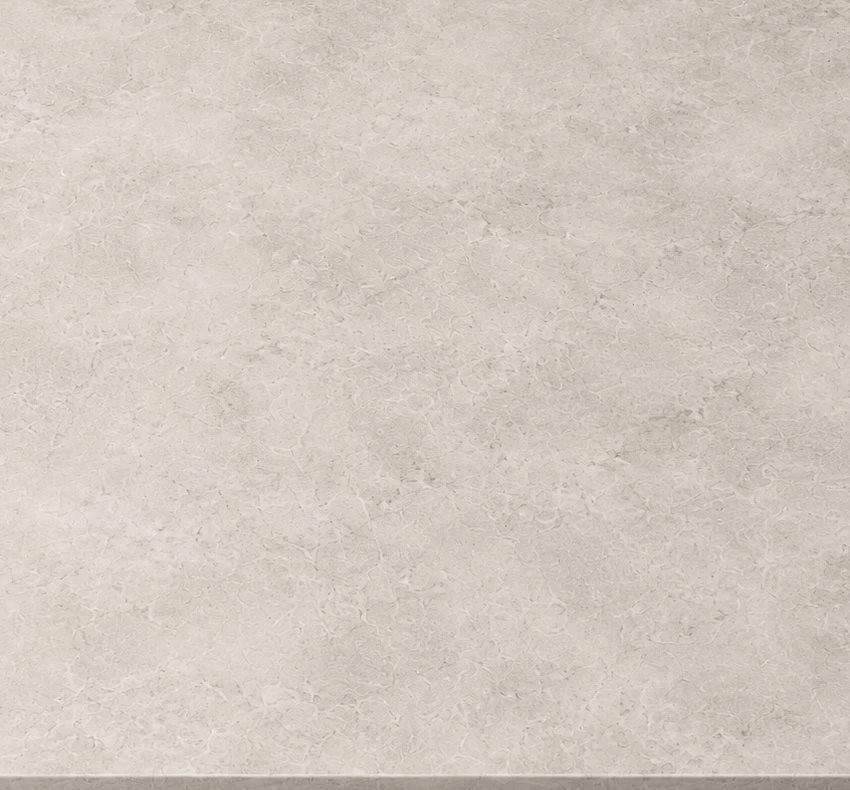
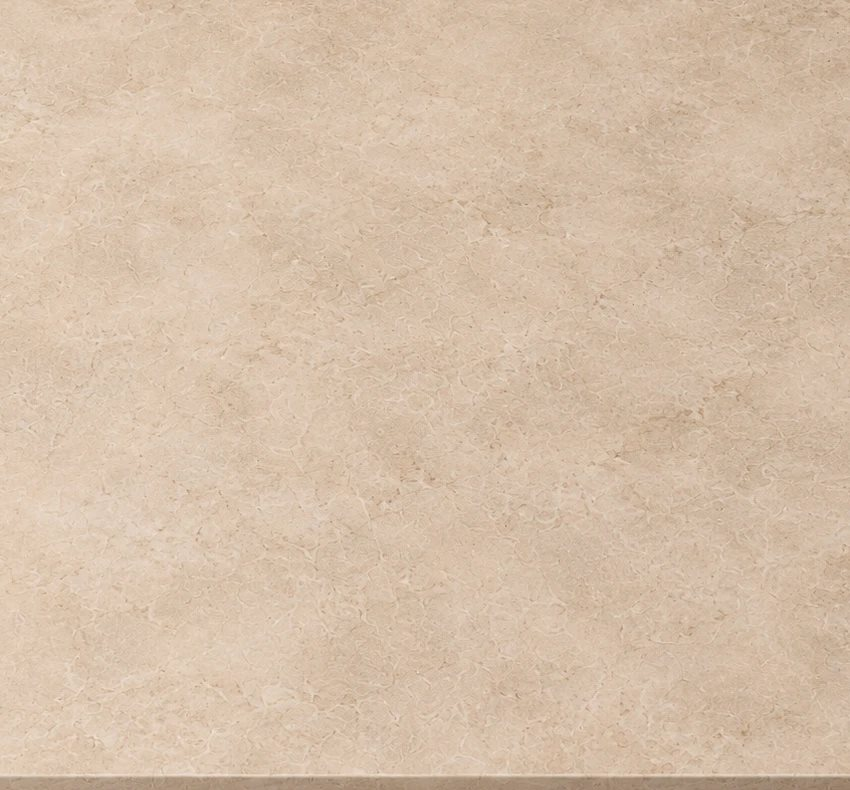
Add files via upload

diff --git a/assets/js/viewer3d.js b/assets/js/viewer3d.js
@@ -1,23 +1,37 @@
-// Live 3D Monolith coffee table (100 × 100 × 35 cm), built from real texture crops.
+// Live 3D Monolith coffee table.
+// Proportions and camera were fitted to the studio product photo (see raw/23):
+// height ≈ 0.258 × width; stone 52 %, shadow gap 11 %, walnut plinth 37 % of the height;
+// the plinth is flush with the top, the gap is a deep recessed core.
 import * as THREE from 'three';
 import { OrbitControls } from 'three/addons/controls/OrbitControls.js';
 import { RoomEnvironment } from 'three/addons/environments/RoomEnvironment.js';
 import { RoundedBoxGeometry } from 'three/addons/geometries/RoundedBoxGeometry.js';
 
 export const FINISHES = {
-  top:  { Travertine: '#ffffff', Sand: '#f3dcb6', Graphite: '#5f5953' },
+  top:  { Travertine: '#ffffff', Sand: '#f1dfc4', Graphite: '#6b655f' },
   base: { Walnut: '#ffffff', Ebony: '#4a403a' },
 };
 
-// dimensions in metres
-const W = 1.0, H = 0.35, TOP_H = 0.21, GAP_H = 0.025, BASE_H = H - TOP_H - GAP_H, BASE_W = 0.97;
+// dimensions in table widths (1 = 100 cm)
+const W = 1.0;
+const H = 0.258;
+const TOP_H = 0.135, GAP_H = 0.028, BASE_H = H - TOP_H - GAP_H;
+const BASE_W = 0.996, CORE_W = 0.82;
 
-export function mountMonolith(el, { autoRotate = true, onReady } = {}) {
-  const renderer = new THREE.WebGLRenderer({ antialias: true, alpha: true });
+// the photo's point of view: 33° to the side, 15° above the table
+const VIEW = { az: THREE.MathUtils.degToRad(33), el: THREE.MathUtils.degToRad(15), fov: 20 };
+const TARGET = new THREE.Vector3(0, H * 0.42, 0);
+// projected half-width of the table at its widest turn (the diagonal), plus a margin for perspective
+const HALF_SPAN = Math.SQRT1_2 * 1.08;
+
+export function mountMonolith(el, opts = {}) {
+  const { autoRotate = true, intro = true, camera: camOverride, preserve = false, onReady } = opts;
+
+  const renderer = new THREE.WebGLRenderer({ antialias: true, alpha: true, preserveDrawingBuffer: preserve });
   renderer.setPixelRatio(Math.min(devicePixelRatio, 2));
   renderer.outputColorSpace = THREE.SRGBColorSpace;
-  renderer.toneMapping = THREE.ACESFilmicToneMapping;
-  renderer.toneMappingExposure = 0.95;
+  // no filmic curve: it bleached and shifted the stone's warm beige
+  renderer.toneMapping = THREE.NoToneMapping;
   renderer.shadowMap.enabled = true;
   renderer.shadowMap.type = THREE.PCFSoftShadowMap;
   el.prepend(renderer.domElement);
@@ -26,131 +40,154 @@ export function mountMonolith(el, { autoRotate = true, onReady } = {}) {
   const pmrem = new THREE.PMREMGenerator(renderer);
   scene.environment = pmrem.fromScene(new RoomEnvironment(), 0.04).texture;
 
-  const camera = new THREE.PerspectiveCamera(30, 1, 0.1, 50);
-  // eye-level view, like the product photos
-  const camEnd = new THREE.Vector3(2.25, 0.85, 2.25);
-  camera.position.copy(camEnd).multiplyScalar(1.45);
-
+  const camera = new THREE.PerspectiveCamera(VIEW.fov, 1, 0.05, 50);
   const controls = new OrbitControls(camera, renderer.domElement);
-  controls.target.set(0, 0.17, 0);
+  controls.target.copy(TARGET);
   controls.enableDamping = true;
   controls.dampingFactor = 0.06;
   controls.enablePan = false;
-  controls.minDistance = 1.5;
-  controls.maxDistance = 4.6;
-  controls.minPolarAngle = 0.25;
-  controls.maxPolarAngle = 1.42;
+  controls.minPolarAngle = THREE.MathUtils.degToRad(20);
+  controls.maxPolarAngle = THREE.MathUtils.degToRad(87);
   controls.autoRotate = autoRotate;
-  controls.autoRotateSpeed = 0.7;
-  controls.enabled = false;           // enabled after the intro move
+  controls.autoRotateSpeed = 0.6;
+  controls.enabled = false;
 
-  // ── light: warm key from a window, soft fill, golden rim ──
-  const key = new THREE.DirectionalLight('#ffe1b8', 2.1);
-  key.position.set(2.2, 3.6, 1.4);
+  // ── light: soft studio key from above-right, broad sky fill, faint warm rim ──
+  const key = new THREE.DirectionalLight('#fff4e8', 1.04);
+  key.position.set(2.3, 3.6, 0.56);
   key.castShadow = true;
   key.shadow.mapSize.set(2048, 2048);
-  Object.assign(key.shadow.camera, { left: -1.4, right: 1.4, top: 1.4, bottom: -1.4, near: 0.5, far: 10 });
-  key.shadow.bias = -0.0004;
+  Object.assign(key.shadow.camera, { left: -1.2, right: 1.2, top: 1.2, bottom: -1.2, near: 0.5, far: 10 });
+  key.shadow.bias = -0.0003;
   key.shadow.normalBias = 0.01;
+  key.shadow.radius = 4;
   scene.add(key);
-  scene.add(new THREE.HemisphereLight('#fff1e0', '#1a120c', 0.55));
-  const rim = new THREE.DirectionalLight('#c9a46a', 1.4);
-  rim.position.set(-3, 1.6, -2.4);
+  const hemi = new THREE.HemisphereLight('#fff6ec', '#2a1e16', 1.11);
+  scene.add(hemi);
+  const rim = new THREE.DirectionalLight('#d9b07a', 0.21);
+  rim.position.set(2.6, 1.4, -2.8);
   scene.add(rim);
 
   // ── floor: shadow catcher + soft contact shadow ──
-  const floor = new THREE.Mesh(new THREE.PlaneGeometry(14, 14), new THREE.ShadowMaterial({ opacity: 0.5 }));
+  const floor = new THREE.Mesh(new THREE.PlaneGeometry(12, 12), new THREE.ShadowMaterial({ opacity: 0.42 }));
   floor.rotation.x = -Math.PI / 2;
   floor.receiveShadow = true;
   scene.add(floor);
-  const blob = new THREE.Mesh(new THREE.PlaneGeometry(1.9, 1.9), new THREE.MeshBasicMaterial({ map: radialTexture(), transparent: true, depthWrite: false }));
+  const blob = new THREE.Mesh(new THREE.PlaneGeometry(1.7, 1.7), new THREE.MeshBasicMaterial({ map: radialTexture(), transparent: true, depthWrite: false }));
   blob.rotation.x = -Math.PI / 2;
   blob.position.y = 0.001;
   scene.add(blob);
 
-  // ── textures ──
+  // ── textures (both taken from the real product images) ──
   const loader = new THREE.TextureLoader();
   const maxAniso = renderer.capabilities.getMaxAnisotropy();
-  const tex = (url, setup) => {
-    const t = loader.load(url, () => loaded());
+  let pending = 2;
+  const loaded = () => { if (--pending === 0) { el.classList.add('ready'); onReady?.(); start(); } };
+  const prep = (t, setup) => {
     t.colorSpace = THREE.SRGBColorSpace;
     t.anisotropy = maxAniso;
+    t.wrapS = t.wrapT = THREE.RepeatWrapping;
     setup?.(t);
     return t;
   };
-  let pending = 3;
-  const loaded = () => { if (--pending === 0) { el.classList.add('ready'); onReady?.(); start(); } };
+  // clones made before the image arrives must be flagged for upload once it does
+  const stoneClones = [], woodClones = [];
+  const stoneSrc = loader.load('assets/img/tex-stone.jpg', () => { stoneClones.forEach(t => t.needsUpdate = true); loaded(); });
+  const woodSrc = loader.load('assets/img/tex-wood.jpg', () => { woodClones.forEach(t => t.needsUpdate = true); loaded(); });
 
-  const stoneTop = tex('assets/img/tex-stone.jpg');
-  // side faces are 1 m × 0.22 m — sample a matching strip so the grain isn't stretched
-  const stoneSide = tex('assets/img/tex-stone.jpg', t => { t.repeat.set(1, TOP_H / W); t.offset.set(0, 0.4); });
-  const wood = tex('assets/img/tex-wood.jpg');
+  const stoneTop = prep(stoneSrc);
+  // side faces are W × TOP_H: sample a strip of the same stone so the grain keeps its scale
+  // (only the vertical offset varies per side — a horizontal one would wrap and leave a seam)
+  const stoneSide = (offset) => { const t = prep(stoneSrc.clone(), t => { t.repeat.set(1, TOP_H / W); t.offset.set(0, 0.15 + offset * 0.8); }); stoneClones.push(t); return t; };
+  // the wood crop is the plinth's own face (W × BASE_H); trim its edge rows, vary the start per side
+  const woodSide = (offset, flip) => { const t = prep(woodSrc.clone(), t => { t.repeat.set(flip ? -1 : 1, 0.9); t.offset.set(offset, 0.05); }); woodClones.push(t); return t; };
 
+  // light and material values below were calibrated against the product photo (≈3/255 average colour error)
   const stoneMat = map => new THREE.MeshPhysicalMaterial({
-    map, bumpMap: map, bumpScale: 0.6, roughness: 0.55, clearcoat: 0.2, clearcoatRoughness: 0.45, envMapIntensity: 0.4,
+    map, bumpMap: map, bumpScale: 0.35, roughness: 0.5, clearcoat: 0.45, clearcoatRoughness: 0.22, envMapIntensity: 0.62,
   });
-  const sideMat = stoneMat(stoneSide), faceMat = stoneMat(stoneTop);
-  const topMats = [sideMat, sideMat, faceMat, faceMat, sideMat, sideMat];   // +x −x +y −y +z −z
-  // the walnut crop is quite dark; a little self-light keeps the grain readable in shadow
-  const woodMat = new THREE.MeshPhysicalMaterial({
-    map: wood, roughness: 0.36, clearcoat: 0.55, clearcoatRoughness: 0.22, envMapIntensity: 0.7,
-    emissive: '#ffffff', emissiveMap: wood, emissiveIntensity: 0.35,
+  const woodMat = map => new THREE.MeshPhysicalMaterial({
+    map, roughness: 0.4, clearcoat: 0.6, clearcoatRoughness: 0.18, envMapIntensity: 0.74,
   });
-  const woodCap = new THREE.MeshStandardMaterial({ color: '#2a1a12', roughness: 0.6 });
-  const baseMats = [woodMat, woodMat, woodCap, woodCap, woodMat, woodMat];
+  const topFace = stoneMat(stoneTop);
+  const sideMats = [0.0, 0.25, 0.5, 0.75].map(o => stoneMat(stoneSide(o)));
+  // whole-face mapping (offset 0) so no texture seam shows; mirrored on two sides for variety
+  const woodMats = [[0, false], [0, true], [0, false], [0, true]].map(([o, f]) => woodMat(woodSide(o, f)));
+  // surfaces inside the shadow gap stay near-black, as in the photo
+  const woodCap = new THREE.MeshStandardMaterial({ color: '#0d0806', roughness: 1, envMapIntensity: 0 });
+  const stoneMats = [sideMats[0], sideMats[1], topFace, sideMats[2], sideMats[2], sideMats[3]];   // +x −x +y −y +z −z
+  const baseMats = [woodMats[0], woodMats[1], woodCap, woodCap, woodMats[2], woodMats[3]];
 
   // ── geometry ──
   const table = new THREE.Group();
-  const top = new THREE.Mesh(new RoundedBoxGeometry(W, TOP_H, W, 4, 0.006), topMats);
+  const top = new THREE.Mesh(new RoundedBoxGeometry(W, TOP_H, W, 3, 0.0035), stoneMats);
   top.position.y = H - TOP_H / 2;
-  const gap = new THREE.Mesh(new THREE.BoxGeometry(BASE_W - 0.05, GAP_H, BASE_W - 0.05), new THREE.MeshStandardMaterial({ color: '#0b0807', roughness: 1 }));
-  gap.position.y = BASE_H + GAP_H / 2;
-  const base = new THREE.Mesh(new RoundedBoxGeometry(BASE_W, BASE_H, BASE_W, 2, 0.004), baseMats);
+  const core = new THREE.Mesh(new THREE.BoxGeometry(CORE_W, GAP_H + 0.002, CORE_W), new THREE.MeshStandardMaterial({ color: '#070504', roughness: 1, envMapIntensity: 0 }));
+  core.position.y = BASE_H + GAP_H / 2;
+  const base = new THREE.Mesh(new RoundedBoxGeometry(BASE_W, BASE_H, BASE_W, 2, 0.0025), baseMats);
   base.position.y = BASE_H / 2;
-  [top, gap, base].forEach(m => { m.castShadow = m.receiveShadow = true; table.add(m); });
+  [top, core, base].forEach(m => { m.castShadow = m.receiveShadow = true; table.add(m); });
   scene.add(table);
 
-  // ── finish switching with a soft colour fade ──
+  // ── finishes: soft colour fade ──
   const topTarget = new THREE.Color(FINISHES.top.Travertine);
   const baseTarget = new THREE.Color(FINISHES.base.Walnut);
-  const api = {
-    setTop: name => topTarget.set(FINISHES.top[name] || '#ffffff'),
-    setBase: name => baseTarget.set(FINISHES.base[name] || '#ffffff'),
-    dispose,
-  };
+  const stoneAll = [topFace, ...sideMats];
 
-  // ── sizing, visibility, loop ──
+  // ── camera framing ──
+  let fitDist = 3.5;
+  const dirFor = (az, elv) => new THREE.Vector3(Math.cos(elv) * Math.sin(az), Math.sin(elv), Math.cos(elv) * Math.cos(az));
   const resize = () => {
     const { clientWidth: w, clientHeight: h } = el;
     if (!w || !h) return;
     renderer.setSize(w, h, false);
     camera.aspect = w / h;
-    camera.fov = w / h < 1 ? 38 : 30;   // portrait screens need a wider lens
+    camera.fov = camOverride?.fov ?? (w / h < 1 ? 26 : VIEW.fov);
     camera.updateProjectionMatrix();
+    // distance so the table, at any turn, fills ~90 % of the narrower direction
+    const halfH = Math.tan(THREE.MathUtils.degToRad(camera.fov / 2));
+    const halfW = halfH * camera.aspect;
+    fitDist = HALF_SPAN / (Math.min(halfW, halfH * 1.9) * 0.9);
+    controls.minDistance = fitDist * 0.55;
+    controls.maxDistance = fitDist * 1.6;
+    if (camOverride) placeOverride();
+    else if (!introRunning && !touched) camera.position.copy(TARGET).addScaledVector(dirFor(VIEW.az, VIEW.el), fitDist);
   };
+  function placeOverride() {
+    const o = camOverride;
+    controls.target.set(...o.target);
+    camera.position.copy(controls.target).addScaledVector(dirFor(o.az, o.el), o.dist);
+    camera.lookAt(controls.target);
+  }
+
+  let touched = false, introRunning = intro && !camOverride, t0 = 0;
   const ro = new ResizeObserver(resize); ro.observe(el); resize();
 
-  let visible = true, running = false, raf = 0, t0 = 0;
+  const hint = el.querySelector('.viewer-hint');
+  renderer.domElement.addEventListener('pointerdown', () => {
+    touched = true; introRunning = false; controls.enabled = true; controls.autoRotate = false;
+    hint?.classList.add('gone');
+  }, { once: true });
+
+  let visible = true, running = false, raf = 0;
   const io = new IntersectionObserver(([e]) => { visible = e.isIntersecting; if (visible && running) loop(); }, { threshold: 0 });
   io.observe(el);
 
-  const hint = el.querySelector('.viewer-hint');
-  renderer.domElement.addEventListener('pointerdown', () => { hint?.classList.add('gone'); controls.autoRotate = false; }, { once: true });
-
-  function start() { running = true; t0 = performance.now(); loop(); }
+  function start() { running = true; t0 = performance.now(); if (!introRunning && !camOverride) controls.enabled = true; loop(); }
   function loop() {
     cancelAnimationFrame(raf);
     if (!visible) return;
     raf = requestAnimationFrame(loop);
-    // intro: glide the camera in
-    const k = Math.min(1, (performance.now() - t0) / 1800);
-    if (k < 1) {
-      const e = 1 - Math.pow(1 - k, 3);
-      camera.position.copy(camEnd).multiplyScalar(1.45 - 0.45 * e);
-      camera.lookAt(controls.target);
-    } else if (!controls.enabled) controls.enabled = true;
-    faceMat.color.lerp(topTarget, 0.08); sideMat.color.copy(faceMat.color);
-    woodMat.color.lerp(baseTarget, 0.08); woodMat.emissive.copy(woodMat.color);
+    if (introRunning) {
+      // glide down from a higher, wider view into the photo angle
+      const k = Math.min(1, (performance.now() - t0) / 2200), e = 1 - Math.pow(1 - k, 3);
+      const az = VIEW.az - 0.6 * (1 - e), elv = VIEW.el + THREE.MathUtils.degToRad(22) * (1 - e);
+      camera.position.copy(TARGET).addScaledVector(dirFor(az, elv), fitDist * (1 + 0.5 * (1 - e)));
+      camera.lookAt(TARGET);
+      if (k >= 1) { introRunning = false; controls.enabled = true; }
+    }
+    for (const m of stoneAll) m.color.lerp(topTarget, 0.08);
+    for (const m of woodMats) m.color.lerp(baseTarget, 0.08);
     if (controls.enabled) controls.update();
     renderer.render(scene, camera);
   }
@@ -159,14 +196,20 @@ export function mountMonolith(el, { autoRotate = true, onReady } = {}) {
     running = false; cancelAnimationFrame(raf); ro.disconnect(); io.disconnect();
     controls.dispose(); renderer.dispose(); renderer.domElement.remove();
   }
-  return api;
+
+  return {
+    setTop: name => topTarget.set(FINISHES.top[name] || '#ffffff'),
+    setBase: name => baseTarget.set(FINISHES.base[name] || '#ffffff'),
+    renderNow: () => renderer.render(scene, camera),
+    dispose,
+  };
 }
 
 function radialTexture() {
   const c = document.createElement('canvas'); c.width = c.height = 256;
   const g = c.getContext('2d');
-  const grd = g.createRadialGradient(128, 128, 20, 128, 128, 128);
-  grd.addColorStop(0, 'rgba(0,0,0,.65)'); grd.addColorStop(.45, 'rgba(0,0,0,.35)'); grd.addColorStop(1, 'rgba(0,0,0,0)');
+  const grd = g.createRadialGradient(128, 128, 30, 128, 128, 128);
+  grd.addColorStop(0, 'rgba(0,0,0,.6)'); grd.addColorStop(.5, 'rgba(0,0,0,.3)'); grd.addColorStop(1, 'rgba(0,0,0,0)');
   g.fillStyle = grd; g.fillRect(0, 0, 256, 256);
   return new THREE.CanvasTexture(c);
 }
